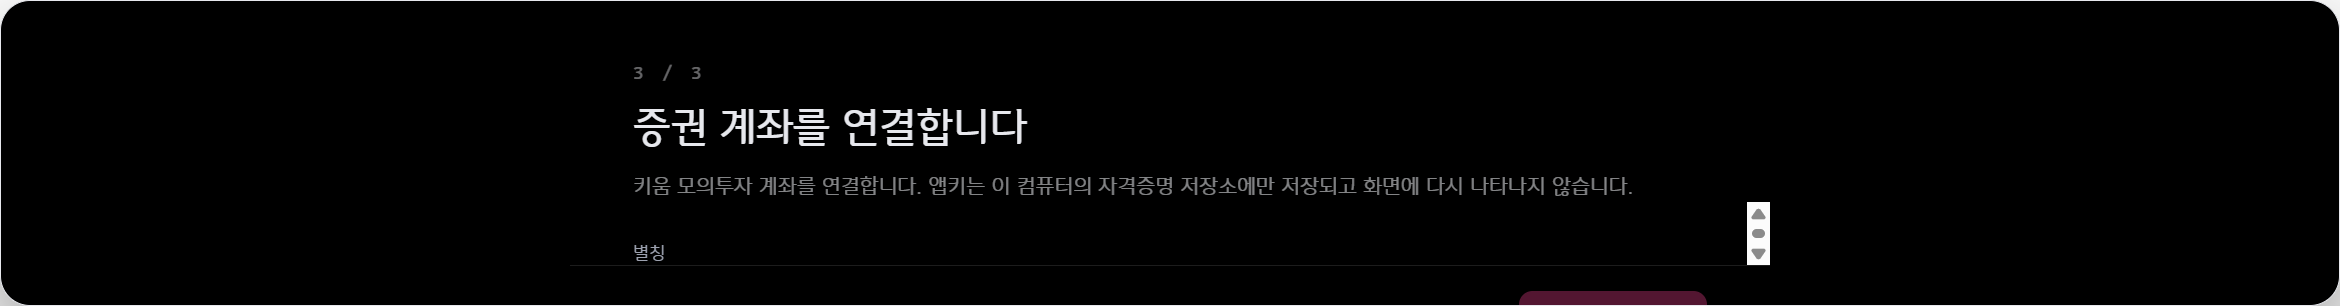
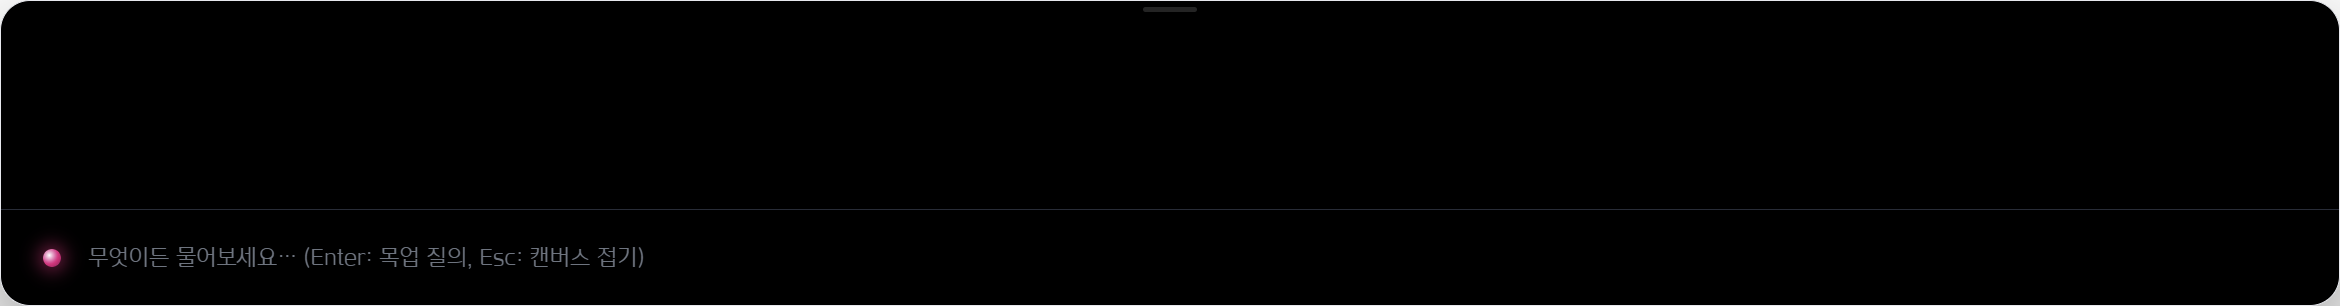
fix(app): 검증이 숨은 DOM을 재던 결함을 고친다
`plan/plan.md` 수치를 재실측하다 나왔다. **`npm run verify`가 exit 0에 단언
전부 true를 내면서 실제로는 아무것도 검증하지 않고 있었다.**

발단은 `chatReady: false`였다. 낡은 단언인 줄 알고 캡처를 열었더니
`02-chat-only-idle.png`가 "부팅 완료된 대화 창"이 아니라 **온보딩 3/3 계좌
등록 화면**이었다.

원인 사슬:

1. `lib/main/`의 네 모듈이 전부 `app.getPath('userData')` 아래를 읽는다
   (`onboarding` · `accounts` · `cli-accounts` · `secrets`). 검증 결과가
   **이 머신에 무엇이 등록돼 있느냐**에 따라 달라졌다.
2. 계좌 미등록이라 `chat.js`가 `#app`을 숨기고 `#onboard`를 띄웠다. 정상이다.
3. `verify.js`는 그걸 모른 채 검증 5~8을 진행했다. `executeJavaScript`로 쏘는
   이벤트는 **숨은 요소에도 도달**하므로 단언은 전부 통과했다.
4. 같은 실행의 `10-e2e-3-done-autogrow.png`("카드 칩 3개 + 트레이스"라고
   README가 설명하던 캡처)에는 온보딩 계좌 화면이 잘려 찍혀 있었다.

같은 뿌리의 두 번째 결함: **자동 성장이 죽었는데 검증은 통과했다.**
`startOnboarding()`이 `manualOverride=true`를 걸고 숨은 `#history`의
`scrollHeight`가 0이라 높이가 205에 머물렀는데, 옛 단언이
`boundsAfterQuery.height > layout.chatBaseH`(=204)였다 — **acrylic 창의 DPI
반올림 1px에 통과하고 있었다.**

수정 3건:

| 무엇 | 어떻게 |
|---|---|
| 시작 상태가 머신에 의존 | `app.setPath('userData', app/.verify-profile)`로 검증 전용 프로필을 쓰고 온보딩을 완료로 심는다. 매 실행 새로 만들고 개인 프로필은 안 건드린다 |
| `chatReady`가 정상 동작을 false로 찍음 | `bootMode`(app/onboard) + `exactlyOneModeVisible`(모드 배타성)로 교체 |
| `grewTallerThanBase`가 1px에 통과 | 질의 **전** 높이 대비 증가로 바꾸고 DPI 오차(±2px)보다 커야 통과. `grownByPx`를 함께 남긴다 |

수정 후 2회 재실행 모두 `모드: app` · `모드 배타성: true` · `grownByPx: 47`.
`10-e2e-3-done-autogrow.png`에 이제 질문·답변·카드 칩 3개·트레이스가 실제로
찍힌다. 캡처 17장과 `VERIFY-REPORT.json`을 이 실행 산출물로 갱신했다.

대가를 명시한다: 검증 전용 프로필은 계좌·MCP 목록이 **빈 상태**다. 검증 7·8은
[…]

diff --git a/app/verify.js b/app/verify.js
@@ -18,6 +18,35 @@ const { execFileSync } = require('child_process');
 const CAPTURES = path.join(__dirname, 'captures');
 if (!fs.existsSync(CAPTURES)) fs.mkdirSync(CAPTURES, { recursive: true });
 
+// ---------- 검증 전용 프로필 — 시작 상태를 이 머신에 맡기지 않는다 ----------
+// 실측으로 드러난 결함이다(2026-08-17). `lib/main/`의 네 모듈이 전부
+// `app.getPath('userData')` 아래를 읽는다 — `onboarding.js`(온보딩 진행),
+// `accounts.js`, `cli-accounts.js`, `secrets.js`. 그래서 **검증 결과가 이 머신에
+// 무엇이 등록돼 있느냐에 따라 달라졌다.**
+//
+// 실제로 일어난 일: 계좌가 미등록이라 `chat.js`가 `#app`을 숨긴 채 온보딩
+// (`#onboard`)을 띄웠고, 그 상태로 검증 5~8이 **숨은 DOM에 대고** 이벤트를
+// 쐈다. 단언은 전부 true였지만 같은 실행의 스크린샷
+// (`10-e2e-3-done-autogrow.png`)에는 대화 이력이 아니라 온보딩 계좌 화면이
+// 찍혀 있었다. 자동 성장도 죽어 있었다 — `startOnboarding()`이
+// `manualOverride=true`를 걸고, 숨은 `#history`의 `scrollHeight`는 0이라
+// `measureNeededHeight()`가 기본 높이만 돌려준다.
+//
+// userData를 검증 전용 디렉토리로 갈아끼우고 온보딩을 완료로 심어 **항상 같은
+// 시작 상태**에서 잰다. 개인 프로필은 건드리지 않는다(백업·복원도 필요 없다).
+// 대가: 계좌·MCP 목록이 빈 상태로 검증된다. 검증 7·8은 카드의 **존재와 경계**를
+// 보는 것이라 유효하지만, 데이터가 찬 상태의 증거는 `npm run verify:settings-cards`
+// 쪽이다(캡처 11장). 두 검증의 역할이 다르다.
+const VERIFY_PROFILE = path.join(__dirname, '.verify-profile');
+fs.rmSync(VERIFY_PROFILE, { recursive: true, force: true });
+fs.mkdirSync(VERIFY_PROFILE, { recursive: true });
+fs.writeFileSync(
+  path.join(VERIFY_PROFILE, 'athena-onboarding.json'),
+  JSON.stringify({ cliDone: true, accountDone: true }, null, 2),
+  'utf-8'
+);
+app.setPath('userData', VERIFY_PROFILE);
+
 const DEBUGLOG = path.join(CAPTURES, 'verify-debug.log');
 fs.writeFileSync(DEBUGLOG, `start ${new Date().toISOString()}\n`);
 function dlog(msg) { fs.appendFileSync(DEBUGLOG, `${new Date().toISOString()} ${msg}\n`); }
@@ -57,16 +86,36 @@ async function clearMedia(win) {
   if (wc.debugger.isAttached()) wc.debugger.detach();
 }
 
-async function waitForChatReady(chatWin, timeoutMs = 5000) {
+// 부팅 완료 판정. **`#app`이 보이는 것과 "부팅 성공"은 더 이상 같은 말이 아니다** —
+// 온보딩 병합 이후 `chat.js`는 온보딩이 필요하면 `#app`을 숨긴 채 `#onboard`를
+// 띄우고, 그게 정상 동작이다. 옛 판정(`!#app.hidden`)은 정상 동작을 false로
+// 찍었다. 판정을 "게이지가 끝났고 대화 창이 **어떤 모드로든** 도달했는가"로
+// 바꾸고, 어느 모드였는지를 리포트에 남긴다.
+//
+// 모드는 배타적이어야 한다 — `#app`·`#onboard`·`#settings`는 형제 패널이고
+// 둘이 동시에 보이면 겹쳐 그려진다(GLOSSARY.md §1: 모드는 창이 아니다).
+async function waitForChatBooted(chatWin, timeoutMs = 5000) {
+  const probe = `(() => {
+    const vis = (id) => { const n = document.getElementById(id); return !!n && !n.hidden; };
+    return { boot: vis('boot'), app: vis('app'), onboard: vis('onboard'), settings: vis('settings') };
+  })()`;
   const t0 = Date.now();
+  let panels = null;
   while (Date.now() - t0 < timeoutMs) {
-    const ready = await chatWin.webContents.executeJavaScript(
-      "!document.getElementById('app').hidden"
-    );
-    if (ready) return true;
+    panels = await chatWin.webContents.executeJavaScript(probe);
+    if (!panels.boot && (panels.app || panels.onboard)) break;
     await wait(100);
   }
-  return false;
+  const booted = !!panels && !panels.boot && (panels.app || panels.onboard);
+  const visibleCount = panels
+    ? ['app', 'onboard', 'settings'].filter((k) => panels[k]).length
+    : 0;
+  return {
+    booted,
+    mode: booted ? (panels.app ? 'app' : 'onboard') : null,
+    exactlyOneModeVisible: visibleCount === 1,
+    panels,
+  };
 }
 
 app.whenReady().then(async () => {
@@ -86,11 +135,22 @@ app.whenReady().then(async () => {
   await wait(200);
   report.bootChatOnly = { canvasVisibleAtBoot: canvasWin.isVisible(), chatVisibleAtBoot: chatWin.isVisible() };
   dlog('before shot 01'); const s1 = await shot(chatWin, '01-boot-gauge.png'); dlog('after shot 01');
-  const chatReady = await waitForChatReady(chatWin);
-  dlog('chatReady done, before shot 02'); const s2 = await shot(chatWin, '02-chat-only-idle.png'); dlog('after shot 02');
+  const boot = await waitForChatBooted(chatWin);
+  dlog('boot done, before shot 02'); const s2 = await shot(chatWin, '02-chat-only-idle.png'); dlog('after shot 02');
   report.bootChatOnly.shots = { boot: s1, idle: s2 };
-  report.bootChatOnly.chatReadyAfterBoot = chatReady;
-  console.log('[verify] 검증1 완료 — 부팅 시 캔버스 창 표시 여부:', canvasWin.isVisible(), 'chatReady:', chatReady);
+  report.bootChatOnly.chatBootedAfterBoot = boot.booted;
+  report.bootChatOnly.bootMode = boot.mode;
+  report.bootChatOnly.exactlyOneModeVisible = boot.exactlyOneModeVisible;
+  report.bootChatOnly.panels = boot.panels;
+  // 검증 전용 프로필은 온보딩을 완료로 심는다(파일 상단 참조) — 그러므로 여기서
+  // 기대하는 모드는 'app'이다. 'onboard'가 나오면 프로필 격리가 깨진 것이고,
+  // 그 상태의 검증 5~8은 숨은 DOM을 재는 것이라 믿으면 안 된다.
+  report.bootChatOnly.bootedIntoChatMode = boot.mode === 'app';
+  console.log(
+    '[verify] 검증1 완료 — 부팅 시 캔버스 창 표시 여부:', canvasWin.isVisible(),
+    '| 대화 창 부팅:', boot.booted, '| 모드:', boot.mode,
+    '| 모드 배타성:', boot.exactlyOneModeVisible
+  );
 
   // ---------- 검증 2: 점 → 캔버스 확장/수축, 프레임 실측 ----------
   const dotBefore = await mainMod.getDotScreenPoint();
@@ -241,7 +301,13 @@ app.whenReady().then(async () => {
   report.e2eTrigger = {
     reachedDoneState: e2eDone,
     boundsBeforeQuery, boundsAfterQuery,
-    grewTallerThanBase: boundsAfterQuery.height > layout.chatBaseH,
+    // 옛 단언은 `boundsAfterQuery.height > layout.chatBaseH`였다. 이건 DPI 반올림
+    // 1px(205 > 204)에 통과한다 — 2026-08-17 실행이 실제로 그렇게 통과했다.
+    // 그때 자동 성장은 죽어 있었다(온보딩이 `#app`을 숨겨 `#history.scrollHeight`가
+    // 0이었다). 질의 **전** 높이 대비 실제 증가를 보고, acrylic DPI 반올림 오차
+    // (±2px)보다 커야 통과시킨다.
+    grewTallerThanBase: boundsAfterQuery.height > boundsBeforeQuery.height + 2,
+    grownByPx: boundsAfterQuery.height - boundsBeforeQuery.height,
     finalAnswerText: finalTurnText,
     cardChipCount: chipCount,
   };
